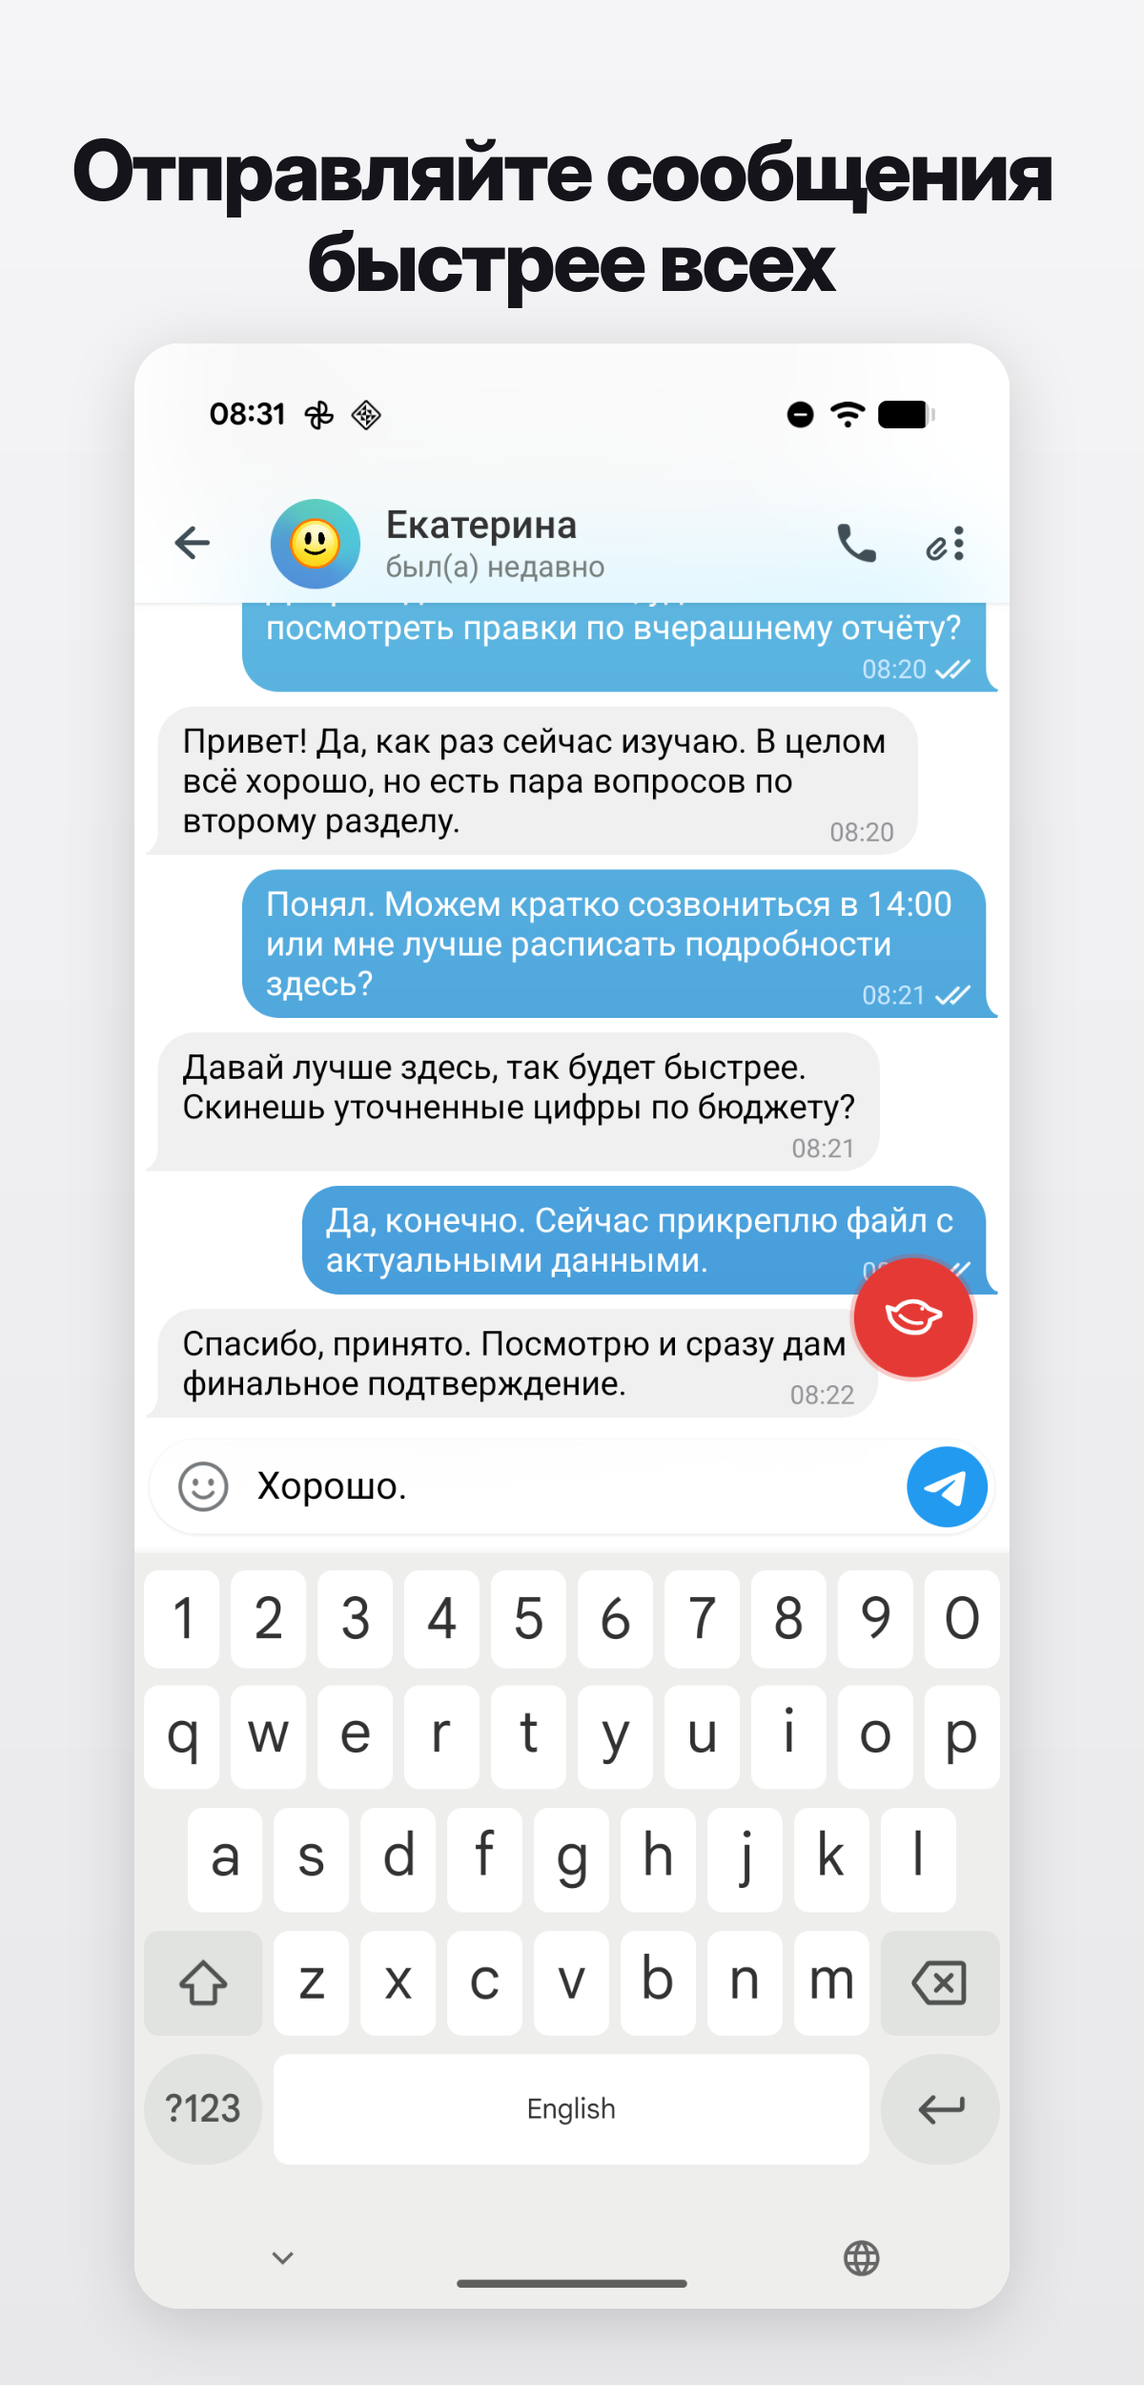
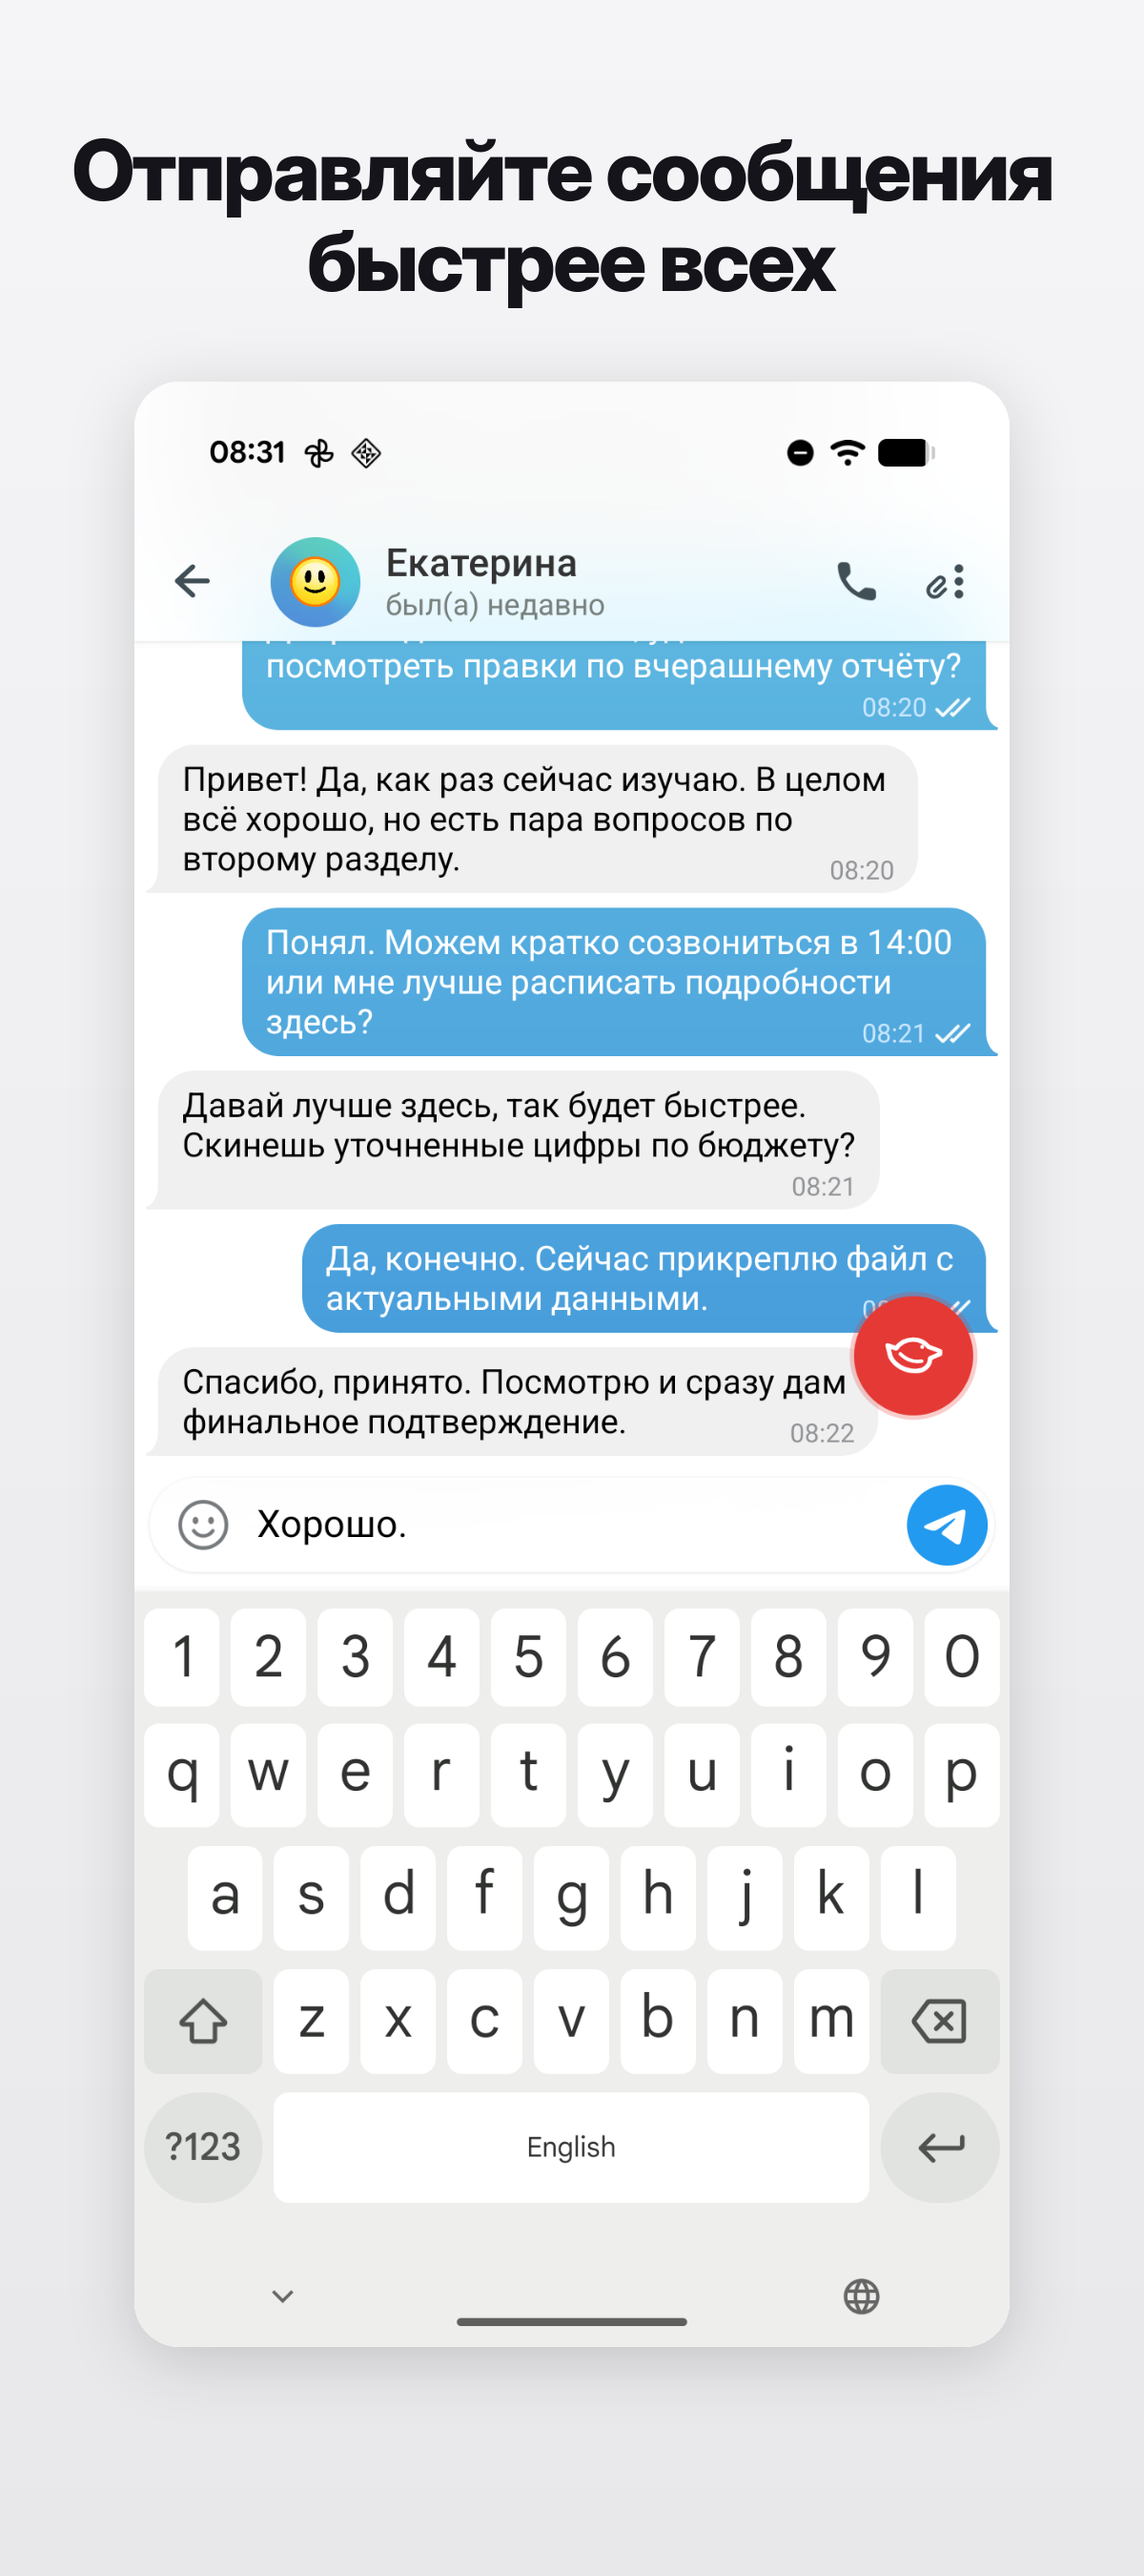
Match output canvas to phone aspect (1200x2700)
Previously the output was 1200x2500 (0.48 aspect), wider than the typical
phone screenshot (0.446 for 1080x2424). The polished image now uses the
same 9:20 ratio, so the result feels like the same screenshot — just
framed and captioned — rather than a re-cropped variant.

diff --git a/shotframe.py b/shotframe.py
@@ -21,15 +21,16 @@ DEFAULT_CONFIG = {
     "input_dir": ".",
     "output_dir": "processed",
     "canvas": {
+        # Match phone aspect (9:20) so output keeps the input proportions.
         "width": 1200,
-        "height": 2500,
+        "height": 2700,
         "bg_top": "#F5F5F7",
         "bg_bottom": "#E8E8EB",
     },
     "screenshot": {
         "width": 918,
         "height": 2060,
-        "y": 360,
+        "y": 400,
         "radius": 48,
         "frame_color": "#FFFFFF",
     },

diff --git a/README.md b/README.md
@@ -73,15 +73,15 @@ input_dir: before        # folder with raw screenshots
 output_dir: after        # where polished PNGs go
 
 canvas:
-  width: 1200
-  height: 2500
+  width: 1200            # matches phone aspect (9:20), so output keeps input proportions
+  height: 2700
   bg_top: "#F5F5F7"
   bg_bottom: "#E8E8EB"
 
 screenshot:
   width: 918             # rendered size of the device screen inside the canvas
   height: 2060
-  y: 360                 # vertical offset from the top of the canvas
+  y: 400                 # vertical offset from the top of the canvas
   radius: 48             # corner radius
   frame_color: "#FFFFFF" # visible only around fully-transparent screenshots
 
